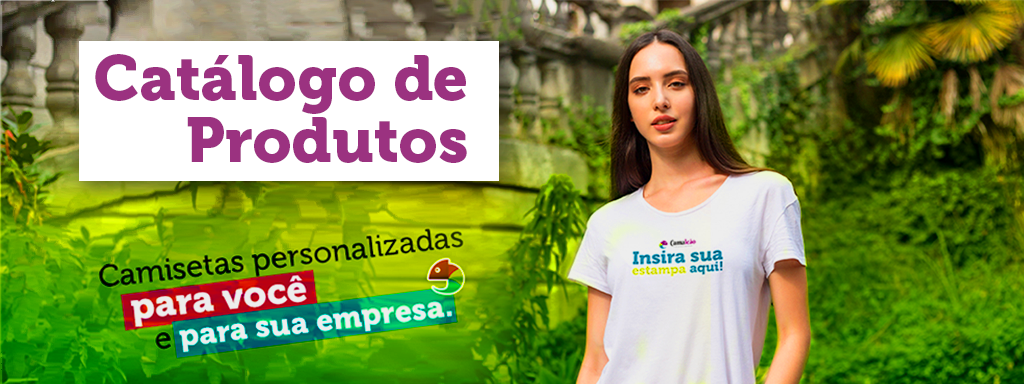
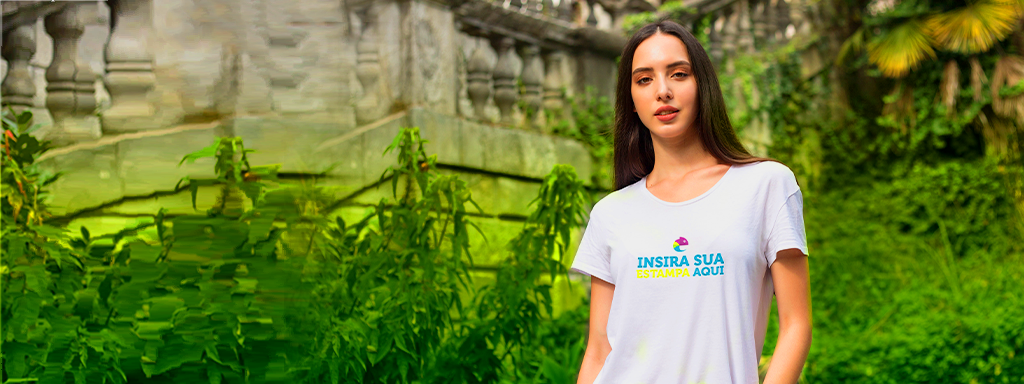
adding changes

diff --git a/pages/index.js b/pages/index.js
@@ -8,22 +8,10 @@ import ProductBanner from "../components/ProductBanner";
 import { productsBanner } from "../lib/productsBanner";
 
 export default function Home() {
-  const [isMobile, setIsMobile] = useState(false);
-
-  useEffect(() => {
-    window.addEventListener("resize", () => {
-      if (window.innerWidth > 1100) {
-        setIsMobile(true);
-      } else {
-        setIsMobile(false);
-      }
-    });
-  }, []);
-
   return (
     <div className="font-roboto">
       <Head>
-        <title>Estamparia Camaleão</title>
+        <title>Home - Estamparia Camaleão</title>
         <meta name="description" content="Generated by create next app" />
         <link rel="icon" href="/favicon.ico" />
       </Head>
@@ -64,34 +52,28 @@ export default function Home() {
             <h2 className="text-2xl font-bold text-main-purple">Quem somos?</h2>
             <div className="text-sm">
               <p>
-                A estamparia Camaleão surgiu em 2022 em Santos/SP com o intuito
-                de entregar um produto de extrema qualidade de forma rápida e
-                com atendimento personalizado.
+                A Camaleão Estamparia, chegou em Santos no ano de 2022 para
+                entregar um produto de extrema qualidade com serviço rápido e
+                personalizado para você ou para sua empresa.
               </p>
               <br />
               <p>
-                Somos comprometidos com os nossos clientes para suprir qualquer
-                demanda e garantindo a satisfação de nossos clientes
-              </p>
-              <br />
-              <p>
-                Contamos com uma equipe de profissionais especializados para
-                fornecer a melhor experiência possível desde o nosso atendimento
-                a entrega de um produto de qualidade
-              </p>
-              <br />
-              <p>
-                Nossos produtos abragem aos mais diferentes públicos, tanto para
-                o uso pessoal quanto para o profissional
+                Com profissionais especializados e muito comprometimento com
+                nossos clientes, suprimos sua demanda e garantimos sua
+                satisfação, além de oferecermos a melhor experiência possível
+                desde o atendimento até a entrega do produto.
               </p>
               <br />
               <p>Nossos diferenciais:</p>
               <br />
               <ul className="list-disc list-inside">
-                <li>Atendimento Personalizado</li>
                 <li>Entrega Rápida</li>
                 <li>Excelentes Profissionais</li>
-                <li>Equipamento de Ponta</li>
+                <li>Impressão Digital direta no tecido</li>
+                <li>Tecido 100% algodão Premium</li>
+                <li>Equipe de suporte de Arte</li>
+                <li>Variedade de cores e modelos</li>
+                <li>Atendimento Personalizado</li>
               </ul>
             </div>
           </div>
@@ -114,11 +96,7 @@ export default function Home() {
               </p>
             </div>
 
-            {isMobile ? (
-              <i className="bi bi-arrow-right text-4xl"></i>
-            ) : (
-              <i className="bi bi-arrow-down text-4xl mb-5"></i>
-            )}
+            <i className="fas fa-arrow-down mb-4 reg:mb-0 reg:-rotate-90 text-4xl"></i>
 
             <div className="relative">
               <div className="w-[145px] h-[145px] bg-main-lime-green rounded-2xl shadow-lg shadow-zinc-400  flex justify-center items-center">
@@ -133,11 +111,7 @@ export default function Home() {
               </p>
             </div>
 
-            {isMobile ? (
-              <i className="bi bi-arrow-right text-4xl"></i>
-            ) : (
-              <i className="bi bi-arrow-down text-4xl mb-5"></i>
-            )}
+            <i className="fas fa-arrow-down mb-4 reg:mb-0 reg:-rotate-90 text-4xl"></i>
 
             <div className="relative">
               <div className="w-[145px] h-[145px] bg-main-lime-green rounded-2xl shadow-lg shadow-zinc-400  flex justify-center items-center">
@@ -153,11 +127,7 @@ export default function Home() {
               </p>
             </div>
 
-            {isMobile ? (
-              <i className="bi bi-arrow-right text-4xl"></i>
-            ) : (
-              <i className="bi bi-arrow-down text-4xl mb-5"></i>
-            )}
+            <i className="fas fa-arrow-down mb-4 reg:mb-0 reg:-rotate-90 text-4xl"></i>
 
             <div className="relative">
               <div className="w-[145px] h-[145px] bg-main-lime-green rounded-2xl shadow-lg shadow-zinc-400  flex justify-center items-center">
@@ -169,11 +139,7 @@ export default function Home() {
               </p>
             </div>
 
-            {isMobile ? (
-              <i className="bi bi-arrow-right text-4xl"></i>
-            ) : (
-              <i className="bi bi-arrow-down text-4xl mb-5"></i>
-            )}
+            <i className="fas fa-arrow-down mb-4 reg:mb-0 reg:-rotate-90 text-4xl"></i>
 
             <div className="relative">
               <div className="w-[145px] h-[145px] bg-main-lime-green rounded-2xl shadow-lg shadow-zinc-400 flex justify-center items-center">
@@ -225,8 +191,8 @@ export default function Home() {
                 </h4>
                 <p>
                   Para fazer um orçamento é muito simples, é preciso apenas
-                  enviar a quantidade e modelo das camisetas, além da estampa e
-                  posicionamento da estampa na camiseta.
+                  enviar a quantidade e modelo das camisetas, Além da arte e
+                  posicionamento da estampa.
                 </p>
               </li>
             </ul>
@@ -260,8 +226,8 @@ export default function Home() {
                   conseguem me ajudar?
                 </h4>
                 <p>
-                  Sim! Temos uma equipe de ilustradores aptos a ajudar a tirar
-                  sua ideia do papel e virar uma camiseta incrível.
+                  Sim! Temos uma equipe de ilustradores aptos para tirar sua
+                  idéia do papel e virar uma camiseta incrível.
                 </p>
               </li>
             </ul>

diff --git a/components/CartItem/index.js b/components/CartItem/index.js
@@ -1,9 +1,10 @@
 /* eslint-disable @next/next/no-img-element */
 import React from "react";
 
-const CartItem = ({ key, img, alt, title, paragraph, sizes, colors }) => {
+const CartItem = ({ id, img, alt, title, paragraph, sizes, colors }) => {
+  console.log(id);
   return (
-    <div key={key} className="flex max-w-6xl mx-auto gap-10">
+    <div key={id} className="flex max-w-6xl mx-auto gap-10">
       <div className=" shadow-lg shadow-zinc-200">
         <img className="w-full h-full object-cover" src={img} alt={alt}></img>
       </div>
@@ -16,25 +17,37 @@ const CartItem = ({ key, img, alt, title, paragraph, sizes, colors }) => {
             <div key={key}>{s}</div>
           ))}
         </div>
+
         <small>CORES DISPONIVEIS: </small>
-        <div className="flex gap-1 flex-wrap max-w-[9rem] mb-5">
-          <div className="w-4 h-4 rounded-full bg-black"></div>
-          <div className="w-4 h-4 rounded-full bg-blue-900"></div>
-          <div className="w-4 h-4 rounded-full bg-gray-800"></div>
-          <div className="w-4 h-4 rounded-full bg-yellow-400"></div>
-          <div className="w-4 h-4 rounded-full bg-red-600"></div>
-          <div className="w-4 h-4 rounded-full bg-orange-400"></div>
-          <div className="w-4 h-4 rounded-full bg-green-900"></div>
-          <div className="w-4 h-4 rounded-full bg-emerald-900"></div>
-          <div className="w-4 h-4 rounded-full bg-gray-600"></div>
-          <div className="w-4 h-4 rounded-full bg-amber-900"></div>
-          <div className="w-4 h-4 rounded-full bg-gray-400"></div>
-          <div className="w-4 h-4 rounded-full bg-purple-800"></div>
-          <div className="w-4 h-4 rounded-full bg-red-900"></div>
-          <div className="w-4 h-4 rounded-full bg-red-300"></div>
-          <div className="w-4 h-4 rounded-full bg-lime-400"></div>
-          <div className="w-4 h-4 rounded-full bg-cyan-400"></div>
-        </div>
+        {id === 3 ? (
+          <div className="flex gap-1 flex-wrap max-w-[9rem] mb-5">
+            <div className="w-4 h-4 rounded-full bg-white shadow-inner shadow-zinc-800"></div>
+            <div className="w-4 h-4 rounded-full bg-gray-600 shadow-inner shadow-zinc-800"></div>
+            <div className="w-4 h-4 rounded-full bg-black shadow-inner shadow-zinc-800"></div>
+            <div className="w-4 h-4 rounded-full bg-blue-900 shadow-inner shadow-zinc-800"></div>
+          </div>
+        ) : (
+          <div className="flex gap-1 flex-wrap max-w-[9rem] mb-5">
+            <div className="w-4 h-4 rounded-full bg-black shadow-inner shadow-zinc-800"></div>
+            <div className="w-4 h-4 rounded-full bg-blue-900 shadow-inner shadow-zinc-800"></div>
+            <div className="w-4 h-4 rounded-full bg-gray-800 shadow-inner shadow-zinc-800"></div>
+            <div className="w-4 h-4 rounded-full bg-yellow-400 shadow-inner shadow-zinc-800"></div>
+            <div className="w-4 h-4 rounded-full bg-red-600 shadow-inner shadow-zinc-800"></div>
+            <div className="w-4 h-4 rounded-full bg-orange-400 shadow-inner shadow-zinc-800"></div>
+            <div className="w-4 h-4 rounded-full bg-green-900 shadow-inner shadow-zinc-700"></div>
+            <div className="w-4 h-4 rounded-full bg-emerald-900 shadow-inner shadow-zinc-800  "></div>
+            <div className="w-4 h-4 rounded-full bg-gray-600 shadow-inner shadow-zinc-800"></div>
+            <div className="w-4 h-4 rounded-full bg-amber-900 shadow-inner shadow-zinc-800"></div>
+            <div className="w-4 h-4 rounded-full bg-gray-400 shadow-inner shadow-zinc-800"></div>
+            <div className="w-4 h-4 rounded-full bg-purple-800 shadow-inner shadow-zinc-800"></div>
+            <div className="w-4 h-4 rounded-full bg-red-900 shadow-inner shadow-zinc-800"></div>
+            <div className="w-4 h-4 rounded-full bg-red-300 shadow-inner shadow-zinc-800"></div>
+            <div className="w-4 h-4 rounded-full bg-lime-400 shadow-inner shadow-zinc-800"></div>
+            <div className="w-4 h-4 rounded-full bg-cyan-400 shadow-inner shadow-zinc-800"></div>
+            <div className="w-4 h-4 rounded-full bg-white shadow-inner shadow-zinc-800"></div>
+          </div>
+        )}
+
         <button className="bg-gray-300 px-5 py-3 rounded-xl text-sm">
           ADICIONAR AO CARRINHO
         </button>

diff --git a/pages/catalogue.js b/pages/catalogue.js
@@ -1,5 +1,6 @@
 /* eslint-disable @next/next/no-img-element */
 import React from "react";
+import Head from "next/head";
 import CartItem from "../components/CartItem";
 import Footer from "../components/Footer";
 import Header from "../components/Header";
@@ -8,26 +9,42 @@ import { products } from "../lib/products";
 function Catalogue() {
   return (
     <div>
+      <Head>
+        <title>Catálogo - Estamparia Camaleão</title>
+      </Head>
+
       <Header />
       <main className="mt-20">
-        <div className="w-full mb-20">
-          <img
-            className="w-full h-full object-cover"
-            src="./assets/banner-products.png"
-            alt="Banner de catalogo de produtos"
-          ></img>
+        <div className="w-full relative 2xl:min-h-[650px] xl:min-h-[500px] lg:min-h-[450px] bg-[url(../public/assets/banner-products.png)] bg-no-repeat bg-cover bg-center mb-20">
+          <div className="static text-center  lg:absolute top-12 left-24 text-main-purple p-4 bg-white text-6xl 2xl:text-8xl font-extrabold lg:text-right lg:shadow-md">
+            Catálogo de <br></br>Produtos
+          </div>
+          <div className="hidden lg:block absolute bottom-14 left-24 text-4xl 2xl:text-5xl -rotate-[6deg]">
+            <p className="mb-1">Camisetas personalizadas</p>
+
+            <p className="bg-red-600 bg-opacity-75 ml-5 mb-2  text-white w-fit">
+              para você
+            </p>
+            <span className="ml-10">e </span>
+            <span className="bg-cyan-300 bg-opacity-75  text-white">
+              para sua empresa.
+            </span>
+          </div>
         </div>
         <div className="flex flex-col gap-10 mb-20">
-          {products.map((p, k) => (
-            <CartItem
-              key={k}
-              img={p.img}
-              alt={p.alt}
-              title={p.title}
-              paragraph={p.paragraph}
-              sizes={p.sizes}
-            />
-          ))}
+          {products.map((p, k) => {
+            return (
+              <CartItem
+                key={k}
+                id={p.id}
+                img={p.img}
+                alt={p.alt}
+                title={p.title}
+                paragraph={p.paragraph}
+                sizes={p.sizes}
+              />
+            );
+          })}
         </div>
       </main>
       <Footer />

diff --git a/lib/products.js b/lib/products.js
@@ -2,6 +2,7 @@ import React from "react";
 
 export const products = [
   {
+    id: 0,
     img: "./assets/white-shirt.png",
     alt: "Homem com camiseta branca",
     title: "Camiseta Masculina",
@@ -11,6 +12,7 @@ export const products = [
     colors: ["green-400", "orange-400"],
   },
   {
+    id: 1,
     img: "./assets/black-shirt.png",
     alt: "Homem com camiseta preta",
     title: "Camiseta Regata",
@@ -20,6 +22,7 @@ export const products = [
     colors: ["green-400", "orange-400"],
   },
   {
+    id: 2,
     img: "./assets/pink-shirt.png",
     alt: "Mulher com camiseta Rosa",
     title: "Camiseta Baby Look",
@@ -29,6 +32,7 @@ export const products = [
     colors: ["green-400", "orange-400"],
   },
   {
+    id: 3,
     img: "./assets/kids-shirt.png",
     alt: "Crianças com camisetas cinza",
     title: "Camiseta Infantil",

diff --git a/pages/_document.js b/pages/_document.js
@@ -18,6 +18,12 @@ export default function Document() {
           rel="stylesheet"
           href="https://cdn.jsdelivr.net/npm/bootstrap-icons@1.5.0/font/bootstrap-icons.css"
         />
+        <script
+          defer
+          src="https://use.fontawesome.com/releases/v5.15.4/js/all.js"
+          integrity="sha384-rOA1PnstxnOBLzCLMcre8ybwbTmemjzdNlILg8O7z1lUkLXozs4DHonlDtnE7fpc"
+          crossOrigin="anonymous"
+        ></script>
       </Head>
       <body>
         <Main />
